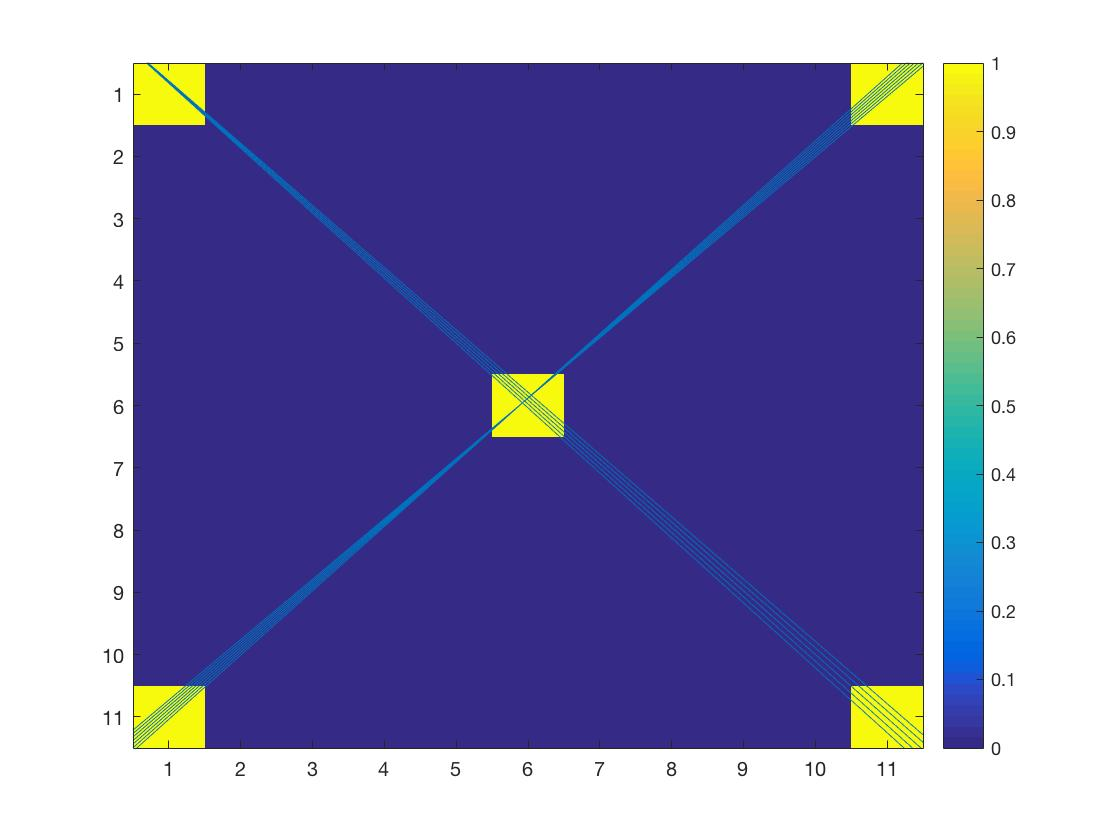
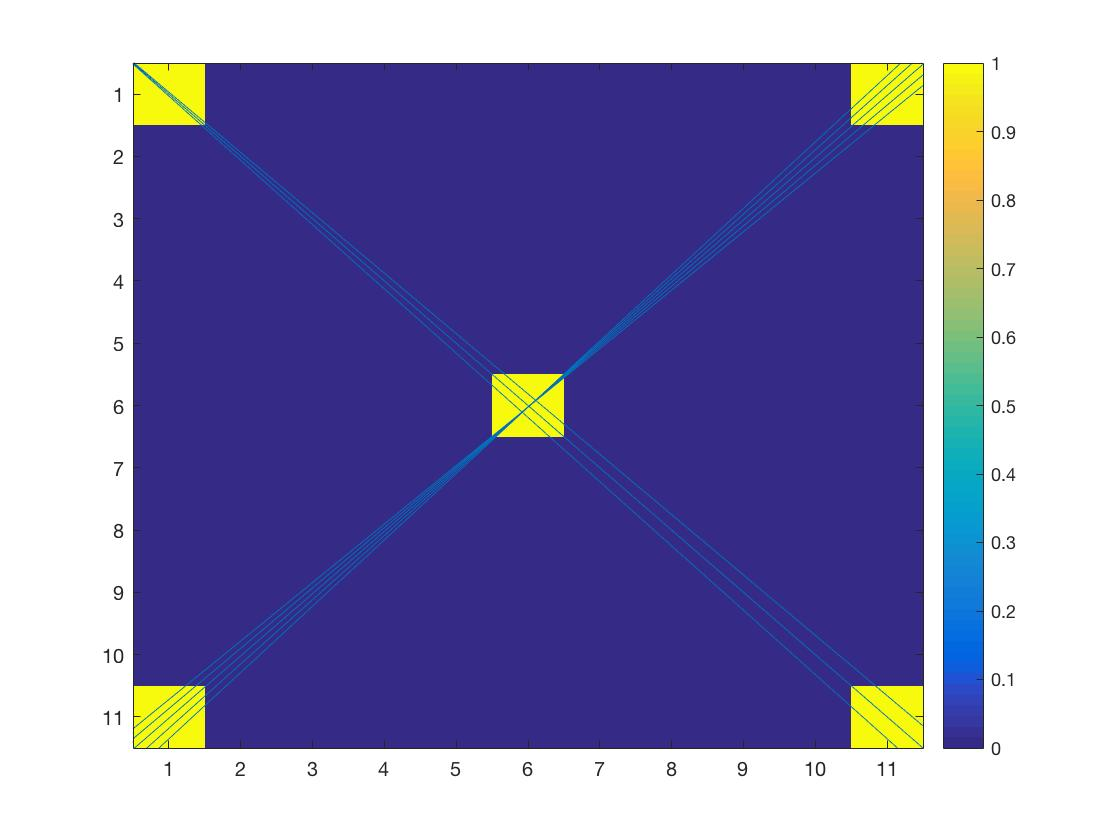
1. Bug Fix - confusion between width and height. 2. Changed parameter for 11x11 binary image for showing lines

diff --git a/houghT.m b/houghT.m
@@ -5,16 +5,16 @@ function houghT(binImage, HT, dSampling, thetaSampling)
 %   dSampling       - the interval in which d should be sampled
 %   thetaSampling   - the interval in which theta should be sampled
     [height, width] = size(binImage);
-    dMax = floor(sqrt(height * height + width * width));
+    dMax = round(sqrt(height * height + width * width));
     d = (-dMax):dSampling:dMax;
     theta = degtorad(0:thetaSampling:180);
     
     szD = size(d);
     szTheta = size(theta);
     rangeMatrix = zeros(szD(1,2), szTheta(1,2));
-    for x = 1:height
-        for y = 1:width
-            if binImage(x,y) == 1
+    for x = 1:width
+        for y = 1:height
+            if binImage(x,y) > 0
                 for thetaItr = 1:szTheta(1,2)
                     dTemp = x * cos(theta(thetaItr)) + y * sin(theta(thetaItr));
                     dTemp = dTemp;
@@ -43,5 +43,3 @@ function houghT(binImage, HT, dSampling, thetaSampling)
         end
     end
 end
-
-

diff --git a/main.m b/main.m
@@ -5,14 +5,12 @@
 % img(n, 1) = 1;
 % img(n, n) = 1;
 % img(round(n/2), round(n/2)) = 1;
-% dSampling = 0.45;
-% thetaSampling = 0.3;
+% dSampling = 0.5;
+% thetaSampling = 0.9;
 % HT = 2;
 % houghT(img, HT, dSampling, thetaSampling);
 
 
 laneImage = imread('lanes.png');
-binImage = sobelOperator(laneImage, 180);
-imagesc(binImage);
-colorbar;
-ihoughT(binImage, -1, 1, 0.45);
+binImage = sobelOperator(laneImage, 128);
+houghT(binImage, -1, 0.01, 1);
